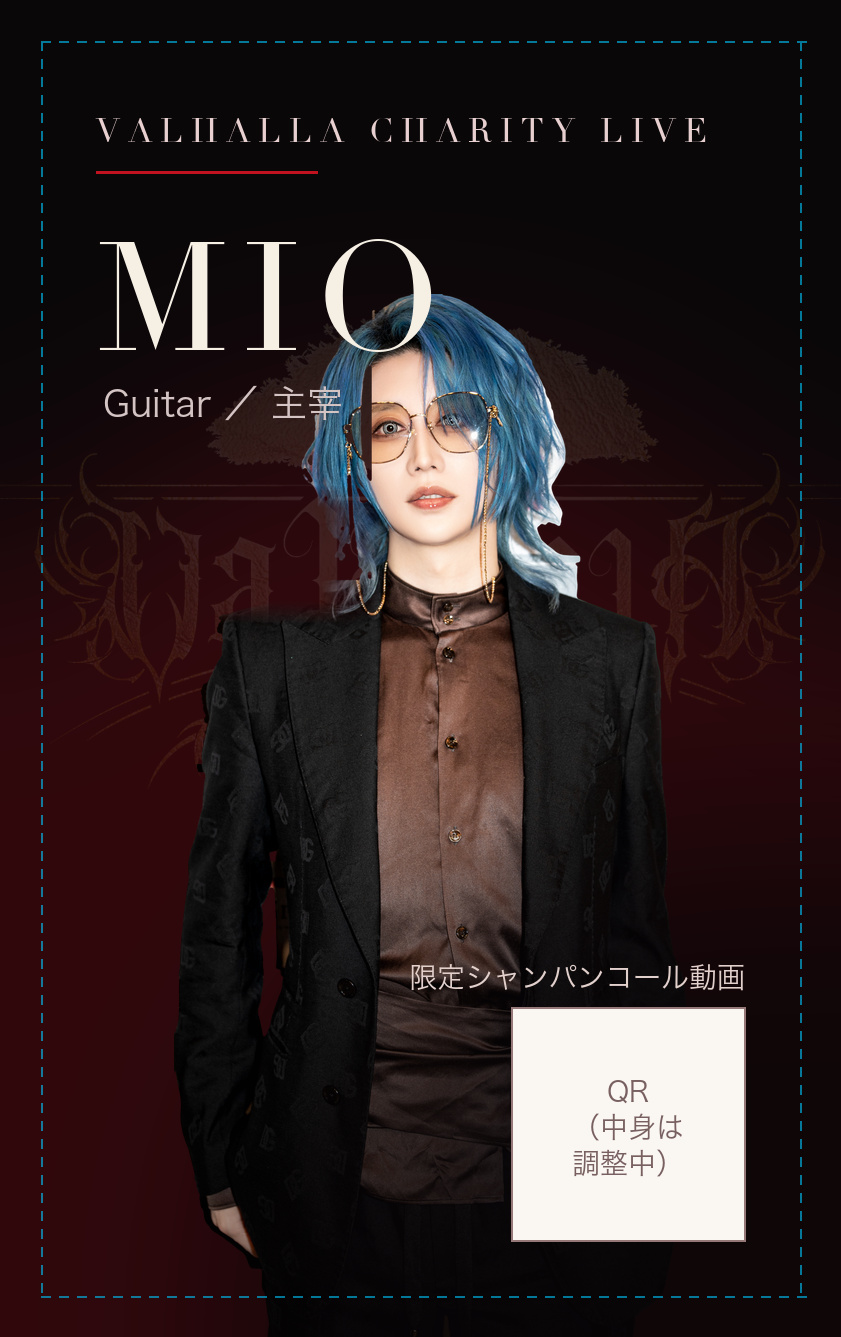
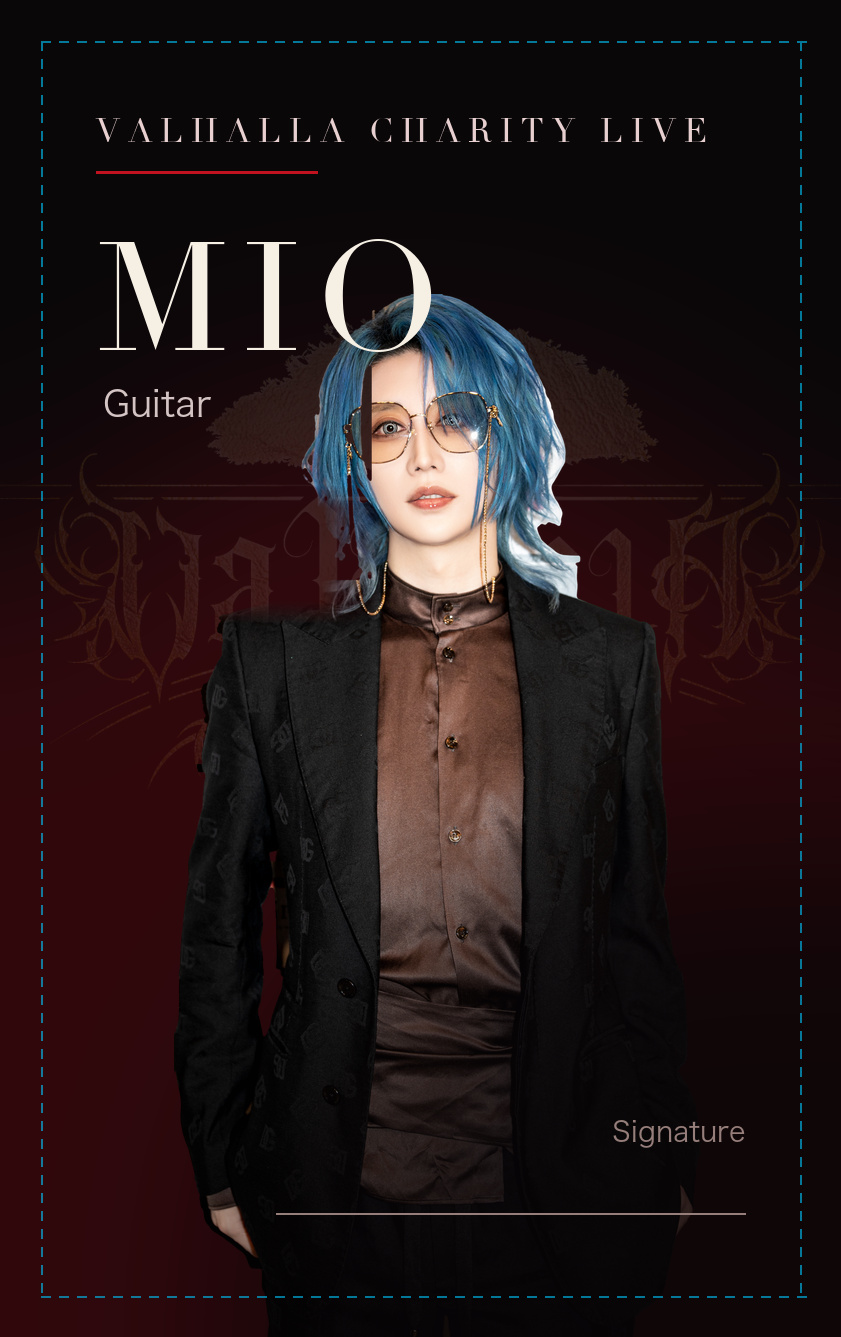
charity: drop the QR from the business card entirely
The card was promising a video it no longer carries, and the placeholder
box printed on the artwork advertised that promise. The space now holds
what MIO actually puts there by hand.

Changed region(s): [[0.5874, 0.7053, 0.8966, 0.9506], [0.4946, 0.7053, 0.5565, 0.736], [0.3401, 0.276, 0.4019, 0.3067]]

diff --git a/charity.html b/charity.html
@@ -458,14 +458,14 @@
 <section>
   <h2>出演メンバー</h2>
   <div class="sub-h">Band VALHALLA</div>
-  <p class="trust">主宰は、複数の事業を手がける経営者であり <b>Group Yggdrasill 代表・MIO（社美緒）</b>。YouTube「Mio Yashiro TV」登録27万人。全国へ展開するグループが、本気で創る一夜です。</p>
+  <p class="trust">出演するのは、複数の事業を手がける経営者であり <b>Group Yggdrasill 代表・MIO（社美緒）</b>。YouTube「Mio Yashiro TV」登録27万人。全国へ展開するグループが、本気で創る一夜です。</p>
   <img class="group-photo" src="assets/charity/group_field.jpg" alt="VALHALLA メンバー">
   <div class="members">
     <div class="m-card">
       <img src="assets/charity/mio.jpg" alt="MIO">
       <div class="m-body">
         <div class="m-name">MIO <span style="font-size:13px;color:var(--sub)">／ 社美緒</span></div>
-        <div class="m-role">Guitar・主宰</div>
+        <div class="m-role">Guitar</div>
         <div class="m-msg"><span class="tbd">【本人メッセージ・調整中】</span></div>
       </div>
     </div>
@@ -585,7 +585,7 @@
         <li>お席をご用意します（<b>相席となります</b>）</li>
         <li>MIO とチェキ（1分）<span class="tbd">【先行入場のお時間にすべて撮影します】</span></li>
         <li>【後日】やしろ語録動画（MIO の言葉を1つ選び、本人に語ってもらい撮影。撮影はファンミーティングの場で）</li>
-        <li>限定名刺（QRから“限定シャンパンコール”が見れる）</li>
+        <li>限定名刺（MIO 本人のサイン入り／ネックストラップ付き）</li>
         <li>【後日】ファンミーティング（2026年11月・ユグドラシル本店／営業時間外の日中）<span class="tbd">【内容・日程調整中】</span></li>
         <li>なりきりしゃーみーグッズ（ノート・ペン）<span class="tbd">【デザイン調整中】</span></li>
         <li>アコースティックライブ観覧</li>
@@ -603,7 +603,7 @@
         <li>MIO と対面で、6分前後お話しいただけます</li>
         <li>お好きなお席をお選びいただけます（先着順・<b>相席となります</b>）</li>
         <li>チェキ／写真／動画OK</li>
-        <li>限定名刺（QRから“限定シャンパンコール”が見れる）</li>
+        <li>限定名刺（MIO 本人のサイン入り／ネックストラップ付き）</li>
         <li>なりきりしゃーみーグッズ（ノート・ペン・トートバッグ・キーホルダー）<span class="tbd">【デザイン調整中】</span></li>
         <li>アコースティックライブ観覧</li>
         <li>同伴の方を1名までお連れいただけます</li>

diff --git a/docs/campfire-returns-list.html b/docs/campfire-returns-list.html
@@ -88,7 +88,7 @@
   <p class="eyebrow">VALHALLA CHARITY LIVE ／ CAMPFIRE</p>
   <h1>リターン品一覧</h1>
   <p>2026年10月18日（日）渋谷　OPEN 19:00 ／ 受付締切 19:25 ／ START 19:30 ／ ライブ終演 20:05（VVIP席のみ 21:10）<br>
-  ご支援へのお返しと、当日の体験のすべて（2026年9月8日時点）</p>
+  ご支援へのお返しと、当日の体験のすべて（2026年9月18日時点）</p>
 </div></header>
 
 <div class="wrap">
@@ -134,7 +134,7 @@
       <tr class="grp"><td colspan="2">電子媒体</td></tr>
       <tr><td class="what"><b>限定名刺（デジタル版）</b><span class="tag tbd">要確定</span>
         <span class="note">郵送をやめたので現物ではなくデータで渡す。
-        <b>形式（画像／PDF／限定URL）が未定。</b>QRは付けない想定（上位コースとの差）</span></td>
+        <b>形式（画像／PDF／限定URL）が未定。</b></span></td>
         <td class="when">オンライン<br>2026年11月</td></tr>
     </tbody>
   </table>
@@ -319,8 +319,6 @@
       <tr><td class="what"><b>限定名刺（デジタル版）</b>（シンプル応援）<span class="tag tbd">要確定</span>
         <span class="note">形式（画像／PDF／限定URL）が未定</span></td>
         <td class="when">オンライン</td></tr>
-      <tr><td class="what"><b>限定シャンパンコール動画</b>（限定名刺のQRから）<span class="tag fix">確定</span></td>
-        <td class="when">オンライン</td></tr>
     </tbody>
   </table>
 </div>
@@ -417,7 +415,7 @@ LINE公式で全員に配布します。</b>先着ではありません。<br>
     <b>「必要経費には出演料が含まれます」という記載と食い違う。</b></span></li>
 </ol>
 
-<p class="foot">VALHALLA CHARITY LIVE ／ 2026年9月8日時点の確定内容。
+<p class="foot">VALHALLA CHARITY LIVE ／ 2026年9月18日時点の確定内容。
 このあと変更があれば同じ形式で更新します。</p>
 
 </div>

diff --git a/docs/campfire-returns-list-send.html b/docs/campfire-returns-list-send.html
@@ -88,7 +88,7 @@
   <p class="eyebrow">VALHALLA CHARITY LIVE ／ CAMPFIRE</p>
   <h1>リターン品一覧</h1>
   <p>2026年10月18日（日）渋谷　OPEN 19:00 ／ 受付締切 19:25 ／ START 19:30 ／ ライブ終演 20:05（VVIP席のみ 21:10）<br>
-  ご支援へのお返しと、当日の体験のすべて（2026年9月8日時点）</p>
+  ご支援へのお返しと、当日の体験のすべて（2026年9月18日時点）</p>
 </div></header>
 
 <div class="wrap">
@@ -134,7 +134,7 @@
       <tr class="grp"><td colspan="2">電子媒体</td></tr>
       <tr><td class="what"><b>限定名刺（デジタル版）</b><span class="tag tbd">要確定</span>
         <span class="note">郵送をやめたので現物ではなくデータで渡す。
-        <b>形式（画像／PDF／限定URL）が未定。</b>QRは付けない想定（上位コースとの差）</span></td>
+        <b>形式（画像／PDF／限定URL）が未定。</b></span></td>
         <td class="when">オンライン<br>2026年11月</td></tr>
     </tbody>
   </table>
@@ -319,8 +319,6 @@
       <tr><td class="what"><b>限定名刺（デジタル版）</b>（シンプル応援）<span class="tag tbd">要確定</span>
         <span class="note">形式（画像／PDF／限定URL）が未定</span></td>
         <td class="when">オンライン</td></tr>
-      <tr><td class="what"><b>限定シャンパンコール動画</b>（限定名刺のQRから）<span class="tag fix">確定</span></td>
-        <td class="when">オンライン</td></tr>
     </tbody>
   </table>
 </div>
@@ -368,7 +366,7 @@ LINE公式で全員に配布します。</b>先着ではありません。<br>
   </table>
 </div>
 
-<p class="foot">VALHALLA CHARITY LIVE ／ 2026年9月8日時点の確定内容。
+<p class="foot">VALHALLA CHARITY LIVE ／ 2026年9月18日時点の確定内容。
 このあと変更があれば同じ形式で更新します。</p>
 
 </div>

diff --git a/assets/charity/create_meishi.py b/assets/charity/create_meishi.py
@@ -89,13 +89,11 @@ def build(cut_name: str, out_name: str) -> None:
     name_f = face(DIDOT, round(11 * MM))
     tracked(d, (BLEED + round(4 * MM), BLEED + round(12 * MM)), "MIO",
             name_f, CREAM + (255,), round(1.0 * MM))
-    d.text((BLEED + round(4.5 * MM), BLEED + round(25 * MM)), "Guitar ／ 主宰",
+    d.text((BLEED + round(4.5 * MM), BLEED + round(25 * MM)), "Guitar",
            font=face(SANS, round(2.6 * MM)), fill=(212, 196, 196, 255))
 
-    # 下：QR の置き場所（中身が決まったら差し替える）
-    # 人物の白いパンツの上に文字が来ると読めないので、
-    # 先に右下だけ落としてから QR と説明を置く
-    qs = round(17 * MM)
+    # 下：サインの置き場所。人物の白いパンツの上に文字が来ると読めないので、
+    # 先に右下だけ落としてから、本人が手で書くための余白を確保する
     corner = Image.new("L", (W, H), 0)
     ImageDraw.Draw(corner).ellipse(
         (W * 0.30, H * 0.62, W * 1.45, H * 1.30), fill=210)
@@ -103,17 +101,14 @@ def build(cut_name: str, out_name: str) -> None:
     base.alpha_composite(Image.merge(
         "RGBA", [Image.new("L", (W, H), v) for v in (8, 5, 7)] + [corner]))
     d = ImageDraw.Draw(base)
-    qx, qy = W - BLEED - round(4 * MM) - qs, H - BLEED - round(4 * MM) - qs
-    d.rectangle((qx, qy, qx + qs, qy + qs), fill=(250, 246, 242, 236))
-    d.rectangle((qx, qy, qx + qs, qy + qs), outline=(150, 120, 120, 255), width=2)
     qf = face(SANS, round(2.0 * MM))
-    for i, line in enumerate(("QR", "（中身は", "調整中）")):
-        w = d.textlength(line, font=qf)
-        d.text((qx + qs / 2 - w / 2, qy + qs / 2 - round(3.4 * MM) + i * round(2.6 * MM)),
-               line, font=qf, fill=(120, 96, 96, 255))
-    cap = "限定シャンパンコール動画"
-    d.text((qx + qs - d.textlength(cap, font=qf), qy - round(3.2 * MM)),
-           cap, font=qf, fill=(226, 208, 204, 255))
+    cap = "Signature"
+    d.text((W - BLEED - round(4 * MM) - d.textlength(cap, font=qf),
+            H - BLEED - round(13 * MM)),
+           cap, font=qf, fill=(150, 126, 122, 255))
+    d.line((W - BLEED - round(4 * MM) - round(34 * MM), H - BLEED - round(6 * MM),
+            W - BLEED - round(4 * MM), H - BLEED - round(6 * MM)),
+           fill=(150, 126, 122, 190), width=2)
 
     # 仕上がり線（入稿時は消す。いまは確認用）
     guide = Image.new("RGBA", (W, H), (0, 0, 0, 0))

diff --git a/tools/build-returns-pdf.py b/tools/build-returns-pdf.py
@@ -224,7 +224,7 @@ def main() -> None:
         canvas.setFillColor(SUB)
         canvas.setFont(GO, 7)
         canvas.drawRightString(PW - MARGIN, 10 * mm, str(canvas.getPageNumber()))
-        canvas.drawString(MARGIN, 10 * mm, "VALHALLA CHARITY LIVE ／ リターン品一覧（2026年9月8日時点）")
+        canvas.drawString(MARGIN, 10 * mm, "VALHALLA CHARITY LIVE ／ リターン品一覧（2026年9月18日時点）")
         canvas.restoreState()
 
     doc = BaseDocTemplate(str(OUT), pagesize=A4,

diff --git a/docs/celavi-afterparty.md b/docs/celavi-afterparty.md
@@ -34,14 +34,14 @@
 ### ② VVIP席 ── 33万円 / 10卓 / 20:30〜　担当: MIO
 - MIOが各卓を**5分前後ずつ巡回**（ホストコール体験＝直接会話）
 - チェキ／写真／動画OK
-- **限定名刺（QRから“限定シャンパンコール”が見れる）**
+- **限定名刺（MIO 本人のサイン入り／ネックストラップ付き）**
 - アコースティックライブ観覧
 - **【別日】Zoomグループセッション**（女性に喜ばれる男性の心構え講座／30分）
 
 ### ③ MIO席 ── 11万円 / 20席 / 20:00〜20:20　担当: MIO
 - チェキ（1分）／動画OK
 - **やしろ語録動画**（MIOの言葉を1つ選び、本人に語ってもらい撮影）
-- **限定名刺（QRから“限定シャンパンコール”が見れる）**
+- **限定名刺（MIO 本人のサイン入り／ネックストラップ付き）**
 - アコースティックライブ観覧
 
 ## 収支（満席想定）
@@ -72,7 +72,7 @@
 - VVIPの別日体験は 農業体験 → **Zoom講座** に変更（録画すればアプリ限定コンテンツに転用可）
 - 会場は **17F完結**（18Fへの移動は廃止）
 - **物販は実施しない**
-- 名刺の**QR → 限定シャンパンコール動画**（会員化・限定視聴の導線）
+- 限定シャンパンコールは**ファンミーティング（11/28）の現場でのみ**観覧できる
 - 出演メンバー公式表記: **RAY / KØU / MIO**（= 零 / コウ / 社美緒）
 
 ## 未確定事項（要確認）

diff --git a/docs/prep-checklist.md b/docs/prep-checklist.md
@@ -9,11 +9,11 @@
 | コース | 金額 | 口数 | 本人 | 同伴 | 来場 |
 |---|---|---|---|---|---|
 | シンプル応援 | 5,000 | 無制限 | — | — | 来場なし |
-| ライブ席 | 10,000 | 99 | 100 | — | **100** |
+| ライブ席 | 10,000 | 98 | 100 | — | **100** |
 | 最前列席 | 50,000 | 29 | 30 | — | **30** |
 | S席・MIOタイム | 150,000 | 14 | 15 | 14 | **30** |
 | VVIP席 | 330,000 | 9 | 10 | 9 | **20** |
-| **合計** | | **155口** | 154 | 25 | **180名** |
+| **合計** | | **155口** | 153 | 25 | **180名** |
 
 **ファンミーティング対象（5万円以上）＝最前列30 ＋ S席30 ＋ VVIP20 ＝ 80名**
 
@@ -92,9 +92,8 @@
 | # | もの | いつ |
 |---|---|---|
 | 30 | **MIO からのお礼動画（約1分）** | お気に入り300件達成時。LINE で配布 |
-| 31 | **限定シャンパンコール動画** | 名刺のQRから視聴。**撮影がまだ** |
-| 32 | **限定名刺（デジタル版）** | シンプル応援。形式未定 |
-| 33 | 公式LINE の設定 | あいさつ文・応答メッセージ・リッチメニュー |
+| 31 | **限定名刺（デジタル版）** | シンプル応援。形式未定 |
+| 32 | 公式LINE の設定 | あいさつ文・応答メッセージ・リッチメニュー |
 
 ---
 

diff --git a/docs/line-official-setup.md b/docs/line-official-setup.md
@@ -98,7 +98,6 @@ VALHALLA CHARITY LIVE の公式アカウントです。
 【URL】
 
 ・画像データです。長押しで保存できます
-・裏面のQRコードから、限定メッセージ動画をご覧いただけます
 ・データの再配布はご遠慮ください
 
 ご支援ありがとうございました。
